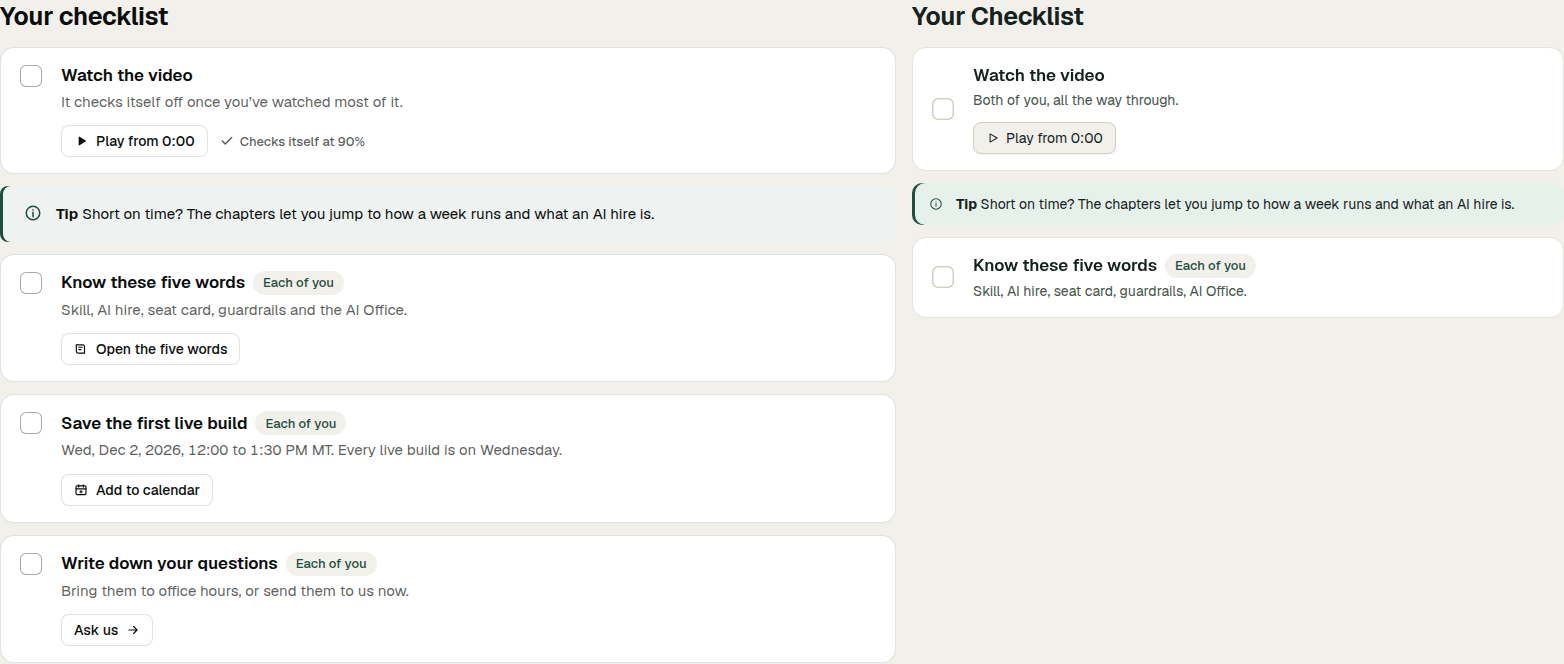
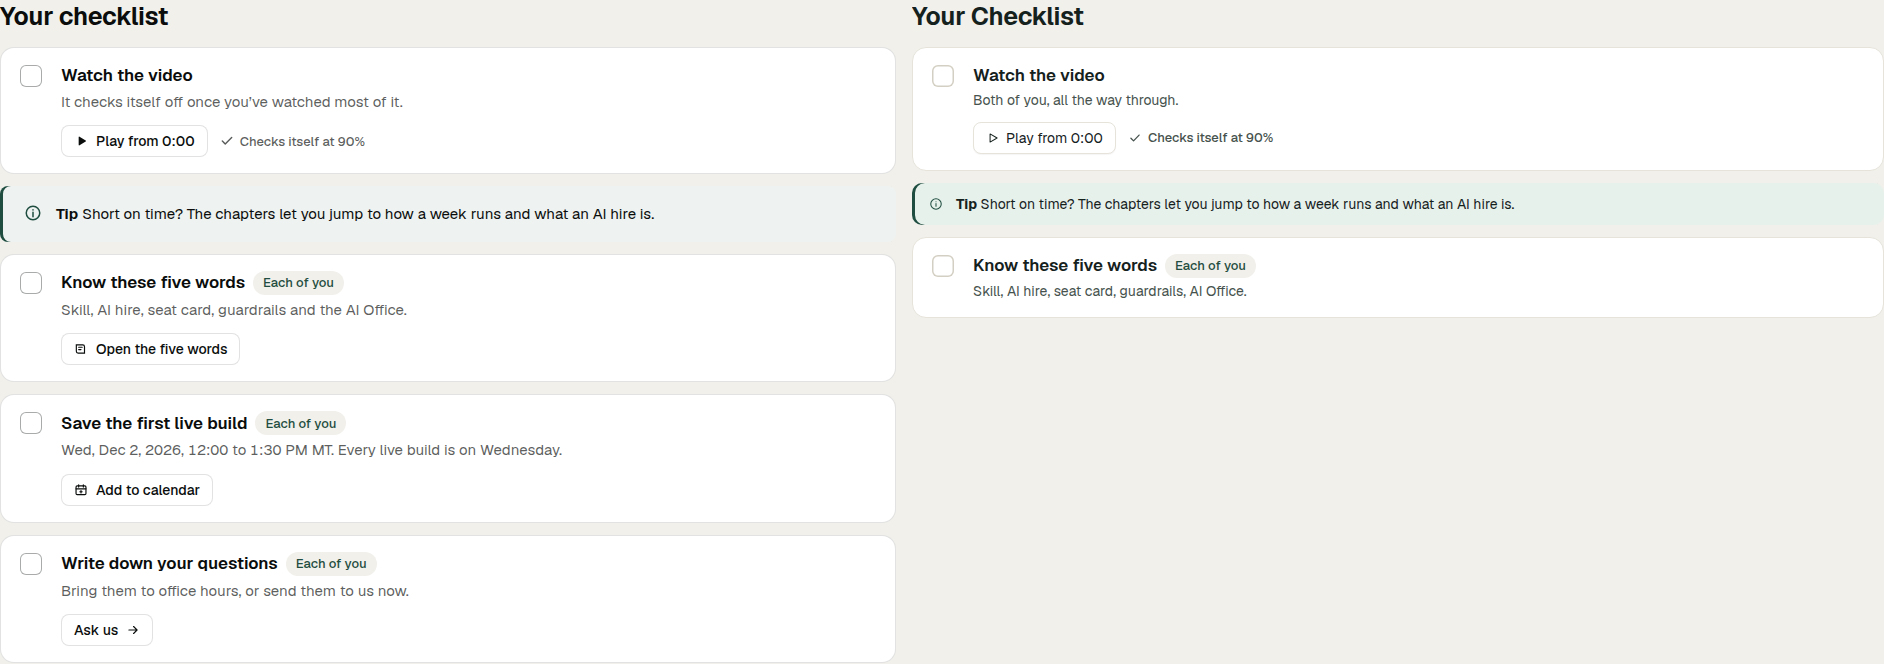
Clear the poster pill and match the rail, checklist, and chapter arrow.
Give the step column the mockup's 1100px side-by-side breakpoint so a 1280 window with the sidebar does not squeeze the 16:9 poster under the play pill. Stick the rail below the header, title the kit For this step, show office hours in Mountain Time, top-align checklist boxes, and hide the chapter arrow at the start of the row.

diff --git a/apps/web/src/routes/learn/Step.tsx b/apps/web/src/routes/learn/Step.tsx
@@ -102,7 +102,7 @@ function Player({ vm, more, local }: { vm: StepVM; more: StepMore; local?: { tog
   if (vm.pills) {
     const layout = vm.layouts?.[on];
     return withGlossary(vm, (
-      <div className={s.pg}>
+      <div className={`${s.pg} ${vm.pills ? s.pgStep : ''}`}>
         <Crumbs crumbs={more.crumbs} />
         <Link className={s.back} to={vm.back.href}>
           <Icon name="r2Back" size={14} strokeWidth={1.75} />
@@ -139,7 +139,7 @@ function Player({ vm, more, local }: { vm: StepVM; more: StepMore; local?: { tog
               </>
             )}
           </div>
-          <aside className={s.col} aria-label={STEP.kit}>
+          <aside className={`${s.col} ${s.stepAside}`} aria-label={STEP.kit}>
             {layout ? <ChecklistRail layout={layout} /> : null}
             {forStep.length ? (
               <section className={s.cd} aria-labelledby="lv-skit-t">
@@ -149,13 +149,13 @@ function Player({ vm, more, local }: { vm: StepVM; more: StepMore; local?: { tog
                 <KitRows rows={forStep} />
               </section>
             ) : null}
-            {more.kit ? <BuildKit vm={more.kit} previewing={more.previewing} notes={false} /> : null}
+            {more.kit ? <BuildKit vm={more.kit} previewing={more.previewing} notes={false} heading={STEP.forStep} headingClass={s.railH} tile={32} /> : null}
             <section className={s.cd} aria-labelledby="lv-help-t">
               <div className={s.cdh}>
                 <h2 className={s.railH} id="lv-help-t">{STEP.stillStuck}</h2>
               </div>
               <Go className={s.li!} href={vm.help.email.href}>
-                <Tile icon="r2Email" tone="forest" size={28} />
+                <Tile icon="r2Email" tone="forest" size={32} />
                 <div className={`${s.colZ} ${s.grow}`}>
                   <span className={s.w5}>{vm.help.email.label}</span>
                   <span className={`${s.me} ${s.el}`}>{vm.help.email.address}</span>
@@ -164,7 +164,7 @@ function Player({ vm, more, local }: { vm: StepVM; more: StepMore; local?: { tog
               </Go>
               {vm.help.officeHours ? (
                 <Go className={s.li!} href={vm.help.officeHours.href}>
-                  <Tile icon="lvLive" tone="blue" size={28} />
+                  <Tile icon="lvLive" tone="forest" size={32} />
                   <div className={`${s.colZ} ${s.grow}`}>
                     <span className={s.w5}>{vm.help.officeHours.label}</span>
                     <span className={s.me}>{vm.help.officeHours.meta}</span>

diff --git a/apps/web/src/routes/learn/WeekContent.tsx b/apps/web/src/routes/learn/WeekContent.tsx
@@ -303,7 +303,7 @@ type Open = { kind: 'prompt' } | { kind: 'file'; key: string } | null;
  * `notes` can be left out (the step player shows the prompt and the files only). `more` (D-186) adds a
  * non-course AI Employee's resources to the same card.
  */
-export function BuildKit({ vm, previewing, notes = true, more = [] }: { vm: BuildKitVM; previewing: boolean; notes?: boolean; more?: KitRowVM[] }) {
+export function BuildKit({ vm, previewing, notes = true, more = [], heading = KIT.buildKit, headingClass, tile = 28 }: { vm: BuildKitVM; previewing: boolean; notes?: boolean; more?: KitRowVM[]; heading?: string; headingClass?: string; tile?: 28 | 32 }) {
   const [open, setOpen] = useState<Open>(null);
   const file = open?.kind === 'file' ? vm.files.find((f) => f.key === open.key) : undefined;
   const btn = `${s.b} ${c.kb}`;
@@ -312,13 +312,13 @@ export function BuildKit({ vm, previewing, notes = true, more = [] }: { vm: Buil
       {vm.prompt || vm.files.length || more.length ? (
         <section className={s.cd} aria-labelledby="lv-bk-t">
           <div className={s.cdh}>
-            <h2 className={`${s.h2} ${s.grow}`} id="lv-bk-t">
-              {KIT.buildKit}
+            <h2 className={headingClass ?? `${s.h2} ${s.grow}`} id="lv-bk-t">
+              {heading}
             </h2>
           </div>
           {vm.prompt ? (
             <div className={`${s.li} ${c.kli}`}>
-              <Tile icon="lvKey" tone="forest" size={28} />
+              <Tile icon="lvKey" tone="forest" size={tile} />
               <div className={`${s.colZ} ${s.grow}`}>
                 <span className={s.w5}>{vm.prompt.title}</span>
                 <span className={s.me}>{vm.prompt.stats}</span>
@@ -344,7 +344,7 @@ export function BuildKit({ vm, previewing, notes = true, more = [] }: { vm: Buil
           ) : null}
           {vm.files.map((f) => (
             <div key={f.key} className={`${s.li} ${c.kli}`}>
-              <Tile icon="file" tone="forest" size={28} />
+              <Tile icon="file" tone="forest" size={tile} />
               <div className={`${s.colZ} ${s.grow}`}>
                 <span className={`${s.w5} ${c.fn}`}>{f.name}</span>
                 <span className={s.me}>{f.meta}</span>

diff --git a/apps/web/src/routes/learn/Video.tsx b/apps/web/src/routes/learn/Video.tsx
@@ -285,8 +285,8 @@ function Chapters({ chapters, active, onSeek }: { chapters: { t: number; label: 
   const measure = () => {
     const el = row.current;
     if (!el) return;
-    const max = el.scrollWidth - el.clientWidth - 1;
-    setEdges({ left: el.scrollLeft > 1, right: el.scrollLeft < max });
+    const max = el.scrollWidth - el.clientWidth;
+    setEdges({ left: el.scrollLeft > 8, right: max - el.scrollLeft > 8 });
   };
   useLayoutEffect(() => {
     measure();
@@ -303,10 +303,17 @@ function Chapters({ chapters, active, onSeek }: { chapters: { t: number; label: 
   useEffect(() => {
     const el = row.current;
     const chip = el?.querySelector<HTMLElement>('[aria-current="true"]');
-    if (!el || !chip) return;
-    if (typeof el.scrollTo !== 'function') return;
+    if (!el || !chip || typeof el.scrollTo !== 'function') return;
+    if (active <= 0) {
+      if (el.scrollLeft > 0) el.scrollTo({ left: 0, behavior: 'auto' });
+      return;
+    }
+    const rowBox = el.getBoundingClientRect();
+    const chipBox = chip.getBoundingClientRect();
+    if (chipBox.left >= rowBox.left - 1 && chipBox.right <= rowBox.right + 1) return;
     const reduce = typeof matchMedia === 'function' && matchMedia('(prefers-reduced-motion: reduce)').matches;
-    el.scrollTo({ left: chip.offsetLeft - el.clientWidth / 2 + chip.offsetWidth / 2, behavior: reduce ? 'auto' : 'smooth' });
+    const delta = chipBox.left - rowBox.left - (el.clientWidth - chipBox.width) / 2;
+    el.scrollTo({ left: Math.max(0, el.scrollLeft + delta), behavior: reduce ? 'auto' : 'smooth' });
   }, [active]);
   const nudge = (dir: number) => {
     const el = row.current;

diff --git a/apps/web/src/routes/learn/Step.vm.ts b/apps/web/src/routes/learn/Step.vm.ts
@@ -7,6 +7,7 @@
 // so "Mark step done" writes through the portal's own `toggleStep`.
 
 import { fmt, mountainWhen } from '@ai/core';
+import { watchThreshold } from '@ai/core/video';
 import type { ChecklistMark, CoursePref, IcsEvent } from '@ai/core';
 import type { Actor } from '@ai/core/mutations';
 import type { CalloutBlock, CheckAction, CheckBlock, ContentBlock, GlossaryTerm, PathBlock, StepPaths, VideoBlock } from '@ai/core/course-types';
@@ -61,6 +62,7 @@ export const STEP = {
   download: 'Download',
   downloaded: 'Downloaded',
   playAt: 'Play from',
+  checksItself: 'Checks itself at',
   /** D-191: the video block's own chrome. */
   chapters: 'Chapters',
   scrollChaptersLeft: 'Scroll chapters left',
@@ -202,6 +204,8 @@ export interface CheckItemVM {
   playSeconds: number | null;
   /** The video id, when the item names one. Absent means the first video on the path. */
   playVideo: string | null;
+  /** Set when the item checks itself once its video is watched to a fraction. */
+  autoLabel: string | null;
   action: CheckActionVM | null;
   subchecks: CheckSubVM[];
   callouts: CalloutVM[];
@@ -430,6 +434,7 @@ function itemVM(b: CheckBlock, callouts: CalloutBlock[], isOn: (stepId: string, 
     playLabel: b.playAt ? `${STEP.playAt} ${fmt.clock(b.playAt.t)}` : null,
     playSeconds: b.playAt ? b.playAt.t : null,
     playVideo: b.playAt?.video ?? null,
+    autoLabel: b.auto ? `${STEP.checksItself} ${Math.round(watchThreshold(b.auto.at) * 100)}%` : null,
     action: actionVM(b.action, kit, fileUrl, sessions),
     subchecks: subs,
     callouts: shown.map(calloutVM),

diff --git a/apps/web/src/routes/learn/Learn.module.css b/apps/web/src/routes/learn/Learn.module.css
@@ -495,6 +495,11 @@ button.b {
   height: 28px;
   border-radius: 7px;
 }
+.t32 {
+  width: 32px;
+  height: 32px;
+  border-radius: 8px;
+}
 .t28 svg {
   width: 16px;
   height: 16px;
@@ -954,6 +959,16 @@ button.b {
   grid-template-columns: minmax(0, 1fr) 288px;
   gap: 32px;
 }
+.pgStep {
+  max-width: 1280px;
+  container-type: inline-size;
+  container-name: step;
+}
+@container step (max-width: 1100px) {
+  .wz[data-v2='true'] {
+    grid-template-columns: minmax(0, 1fr);
+  }
+}
 .railH {
   font-family: var(--r2-font-mono);
   font-size: 13px;
@@ -967,6 +982,11 @@ button.b {
   border-bottom: 0;
   min-height: 0;
   padding: 16px 16px 4px;
+}
+.stepAside button {
+  background: var(--r2-sf);
+  border-color: var(--r2-line);
+  height: 32px;
 }
 .wz[data-v2='true'] > aside {
   display: flex;
@@ -1426,7 +1446,7 @@ button.b {
 }
 .hsBtn[data-side='prev'] { left: 0; }
 .hsBtn[data-side='next'] { right: 0; }
-.hsBtn[hidden] { display: none; }
+.hsBtn[hidden] { display: none !important; }
 .fadeL {
   mask: linear-gradient(90deg, transparent, var(--r2-ink) 44px);
 }

diff --git a/apps/web/src/routes/learn/Checklist.module.css b/apps/web/src/routes/learn/Checklist.module.css
@@ -239,6 +239,7 @@
 .item {
   display: grid;
   grid-template-columns: 44px minmax(0, 1fr);
+  align-items: start;
   gap: 8px;
   background: var(--r2-sf);
   border: 1px solid var(--r2-line);
@@ -252,9 +253,13 @@
 .item[data-wait='true'] {
   opacity: 0.6;
 }
+.boxBtn {
+  margin-top: -10px;
+}
 .boxBtn,
 .sub {
   flex: none;
+  align-self: start;
   min-width: 44px;
   min-height: 44px;
   display: grid;
@@ -404,9 +409,26 @@
 .acts {
   display: flex;
   flex-wrap: wrap;
-  gap: 10px;
+  gap: 8px;
   align-items: center;
   margin-top: 12px;
+}
+.act {
+  height: 32px;
+  padding: 0 12px;
+  background: var(--r2-sf);
+  border-color: var(--r2-line);
+  font-size: 14px;
+}
+.auto {
+  display: inline-flex;
+  align-items: center;
+  gap: 6px;
+  margin-left: 4px;
+  font-size: 13px;
+  font-weight: 500;
+  line-height: 1;
+  color: var(--r2-f2);
 }
 .copy {
   display: flex;
@@ -661,7 +683,7 @@
 }
 .rail {
   position: sticky;
-  top: 24px;
+  top: 76px;
   display: flex;
   flex-direction: column;
   gap: 16px;

diff --git a/apps/web/src/routes/learn/learn.vm.ts b/apps/web/src/routes/learn/learn.vm.ts
@@ -10,7 +10,7 @@
 // own way, through `opensText` (Mountain Time, from the `locked.opens` copy string).
 
 import { ACCELERATOR_SUPPORT_EMAIL } from '@ai/core/accelerator';
-import { cohortLine, fmt } from '@ai/core';
+import { cohortLine, fmt, mountainWhen } from '@ai/core';
 import type { AIEmployee, Db, IconName, IcsEvent, Learner, ResourceKind } from '@ai/core';
 import { isLockedWeek } from '@ai/core/course';
 import type { CourseKitItem, LearnerCourseWeek, LockedCourseWeek, OpenCourseWeek } from '@ai/core/course';
@@ -498,7 +498,7 @@ export function helpVM(p: CoursePayload, now: number): HelpVM {
   const oh = upcomingSessions(p.sessions, now, 'office_hours')[0];
   return {
     email: { label: LABELS.emailSupport, address: ACCELERATOR_SUPPORT_EMAIL, href: SUPPORT_HREF },
-    officeHours: oh ? { label: LABELS.officeHours, meta: fmt.when(oh.start), href: learnSchedule() } : null,
+    officeHours: oh ? { label: LABELS.officeHours, meta: mountainWhen(oh.start), href: learnSchedule() } : null,
   };
 }
 

diff --git a/apps/web/src/routes/learn/Checklist.tsx b/apps/web/src/routes/learn/Checklist.tsx
@@ -247,10 +247,16 @@ function Item({
           <div className={s.acts}>
             {item.action ? <Action action={item.action} /> : null}
             {item.playSeconds !== null && item.playLabel ? (
-              <button type="button" className={`${l.b} ${l.bi}`} onClick={() => onPlay(item.playSeconds!, item.playVideo)}>
+              <button type="button" className={`${l.b} ${l.bi} ${s.act}`} onClick={() => onPlay(item.playSeconds!, item.playVideo)}>
                 <Icon name="r2Play" size={14} strokeWidth={1.75} />
                 {item.playLabel}
               </button>
+            ) : null}
+            {item.autoLabel ? (
+              <span className={s.auto}>
+                <Icon name="r2Check" size={14} strokeWidth={2.2} />
+                {item.autoLabel}
+              </span>
             ) : null}
           </div>
         ) : null}

diff --git a/apps/web/src/routes/learn/parts.tsx b/apps/web/src/routes/learn/parts.tsx
@@ -20,9 +20,9 @@ import s from './Learn.module.css';
 // The pieces the learner portal v2's pages share (D-177). Markup only: every string is the caller's
 // view-model's.
 
-const SIZE: Record<28 | 36 | 44 | 52, string> = { 28: s.t28!, 36: s.t36!, 44: s.t44!, 52: s.t52! };
+const SIZE: Record<28 | 32 | 36 | 44 | 52, string> = { 28: s.t28!, 32: s.t32!, 36: s.t36!, 44: s.t44!, 52: s.t52! };
 
-export function Tile({ icon, tone, size }: { icon: IconName; tone: Tone; size: 28 | 36 | 44 | 52 }) {
+export function Tile({ icon, tone, size }: { icon: IconName; tone: Tone; size: 28 | 32 | 36 | 44 | 52 }) {
   return (
     <span className={`${s.tile} ${SIZE[size]}`} data-hue={HUE[tone]} aria-hidden="true">
       <Icon name={icon} size={18} strokeWidth={size === 52 ? 1.7 : 1.8} />

diff --git a/apps/web/src/routes/learn/Step.vm.test.ts b/apps/web/src/routes/learn/Step.vm.test.ts
@@ -62,7 +62,7 @@ describe('the step player (D-177)', () => {
     const vm = stepVM(st.payload, rows[0], 3, learner, st.now);
     if (vm.kind !== 'step') throw new Error('missing');
     expect(vm.forStep).toEqual([]);
-    expect(vm.help.officeHours).toMatchObject({ label: 'Office hours', meta: 'Thu, Dec 3 · 12:00 PM MT (1:00 PM CT)', href: '/learn/schedule' });
+    expect(vm.help.officeHours).toMatchObject({ label: 'Office hours', meta: 'Thu, Dec 3 · 12:00 PM MT', href: '/learn/schedule' });
   });
 
   it('a step’s linked Library skill alone, and a comma list drops a skill whose page is not built', () => {

diff --git a/DECISIONS.md b/DECISIONS.md
@@ -6767,7 +6767,8 @@ CLAUDE.md says this file only grows with explicit human approval, and this is it
 - **Checklist.** Each row is its own card with a line border. A tip that follows an item is its own row between the cards, with a forest left bar. The box is 22px with a forest border and a 4px forest halo at 6% on hover. `Each of you` is a bone tag. Row actions are the secondary button. A play label reads `Play from` and the time.
 - **Reference.** The accordion is one bordered card. The summary is a row with a chevron.
 - **Footer.** Mark step done and the next step sit side by side. Mark step done stays the forest button. The next step is a forest card: a mono `Next`, the step title, its meta line, a mint bar, and an arrow. One energy ring plays when the step is marked done. Reduced motion draws no ring. The confetti dots are gone.
-- **Poster.** Before playback, a forest pill sits at the bottom right: a mint play disc, `Play` plus the title with a leading `Watch` swapped for `Play`, and the duration once the file reports it.
+- **Poster.** Before playback, a forest pill sits at the bottom right: a mint play disc, `Play` plus the title with a leading `Watch` swapped for `Play`, and the duration once the file reports it. The frame is the full column at 16:9. When the content box is under 1100px (the mockup's own side-by-side breakpoint; a 1280 window with the 244px sidebar is under it), the rail sits below the column so the poster is not squeezed under the play pill.
+- **Rail time.** Office hours on this page uses `mountainWhen`, so it always reads Mountain Time (`Thu, Dec 3 · 12:00 PM MT`). The next office hours after the fixture clock is Dec 10, which is the seed, not the formatter.
 - **Rail.** On this page, the checklist mirror, For this step, and Still stuck are separate cards. Headings are mono caps. The current On this page link has a forest left bar.
 - **Step circles.** The circles pack to the left. They do not spread across the row.
 - **Reference files.** The mockup HTML, poster, and transcript live in `design-reference/week0-polish/`. The mockup fonts are not added: the app and `design-reference/fonts/` already ship Geist and Geist Mono.
